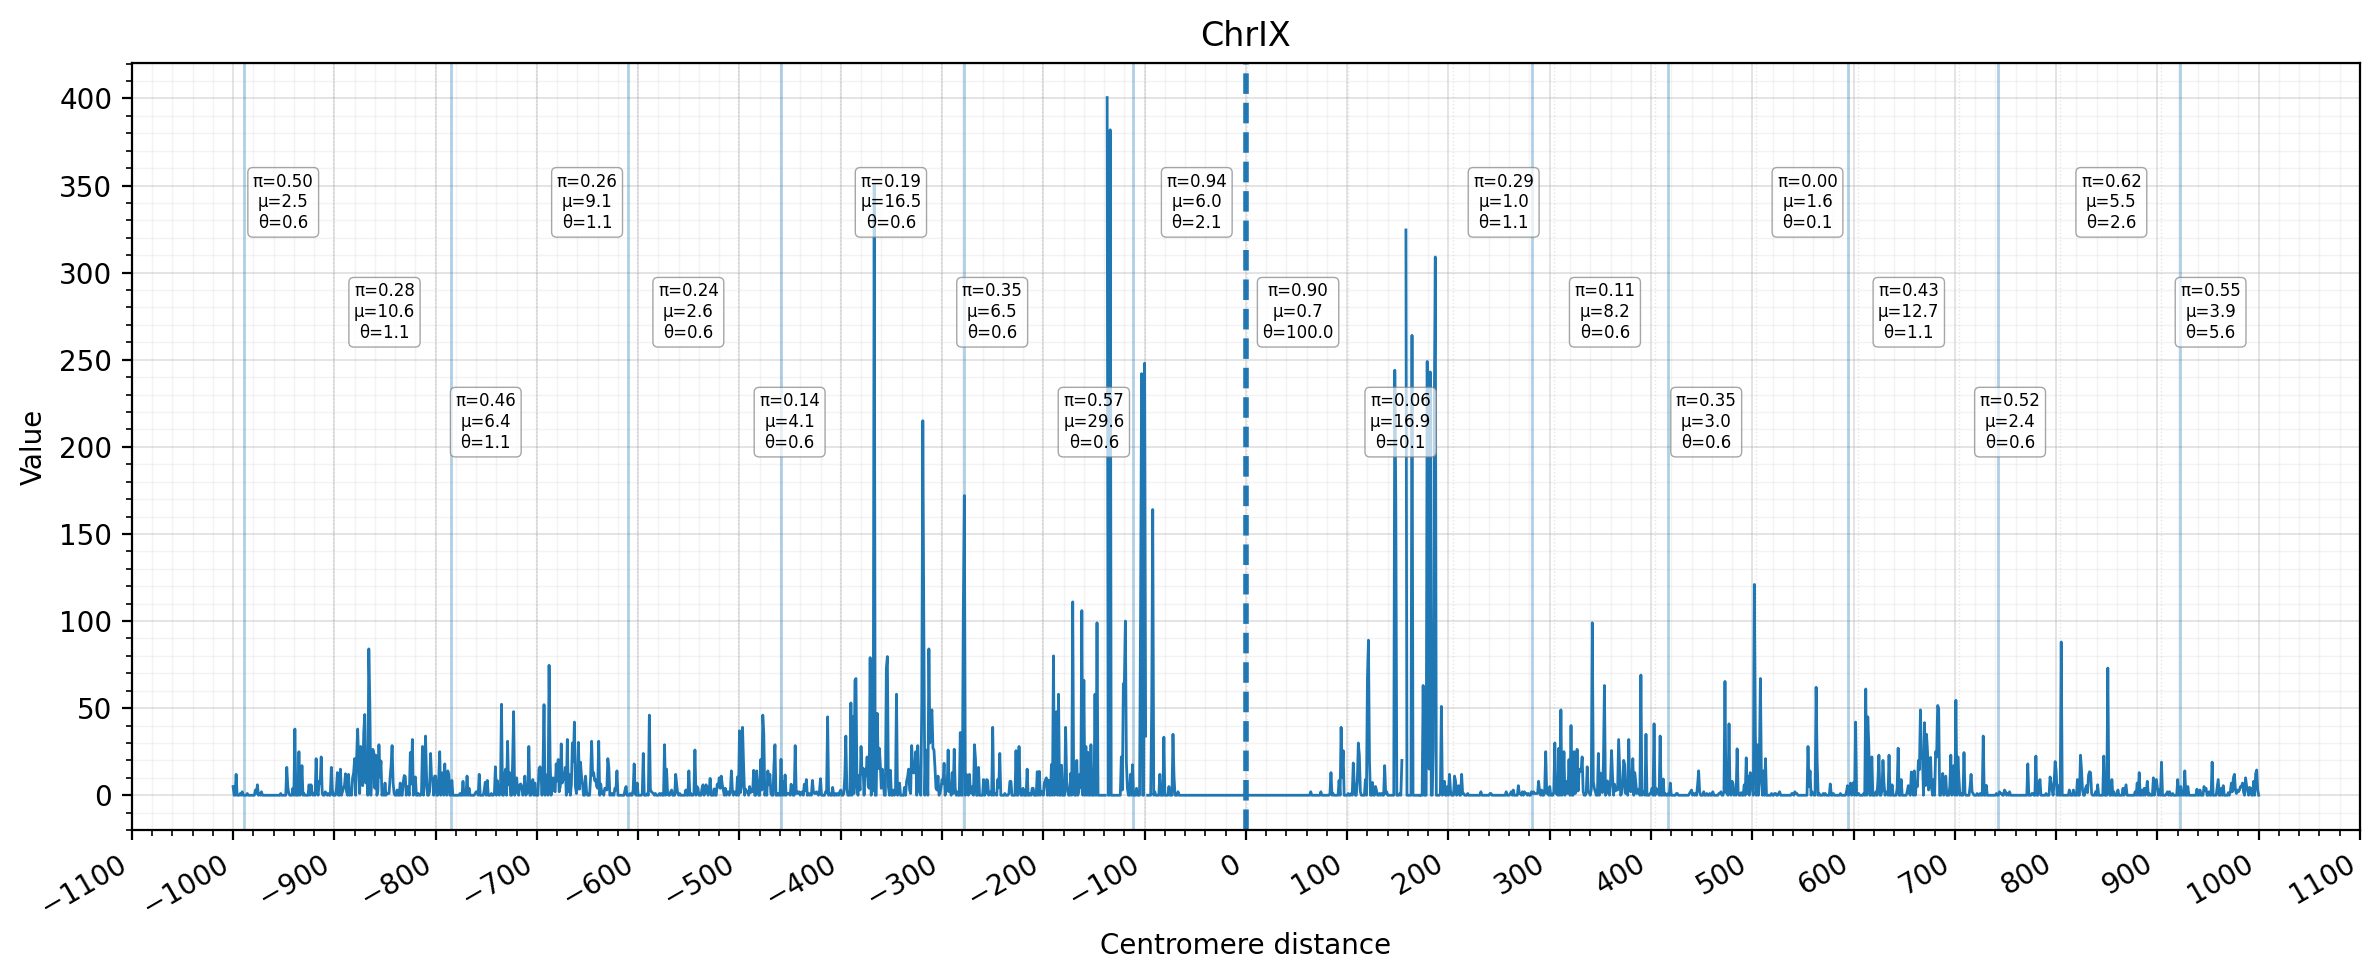
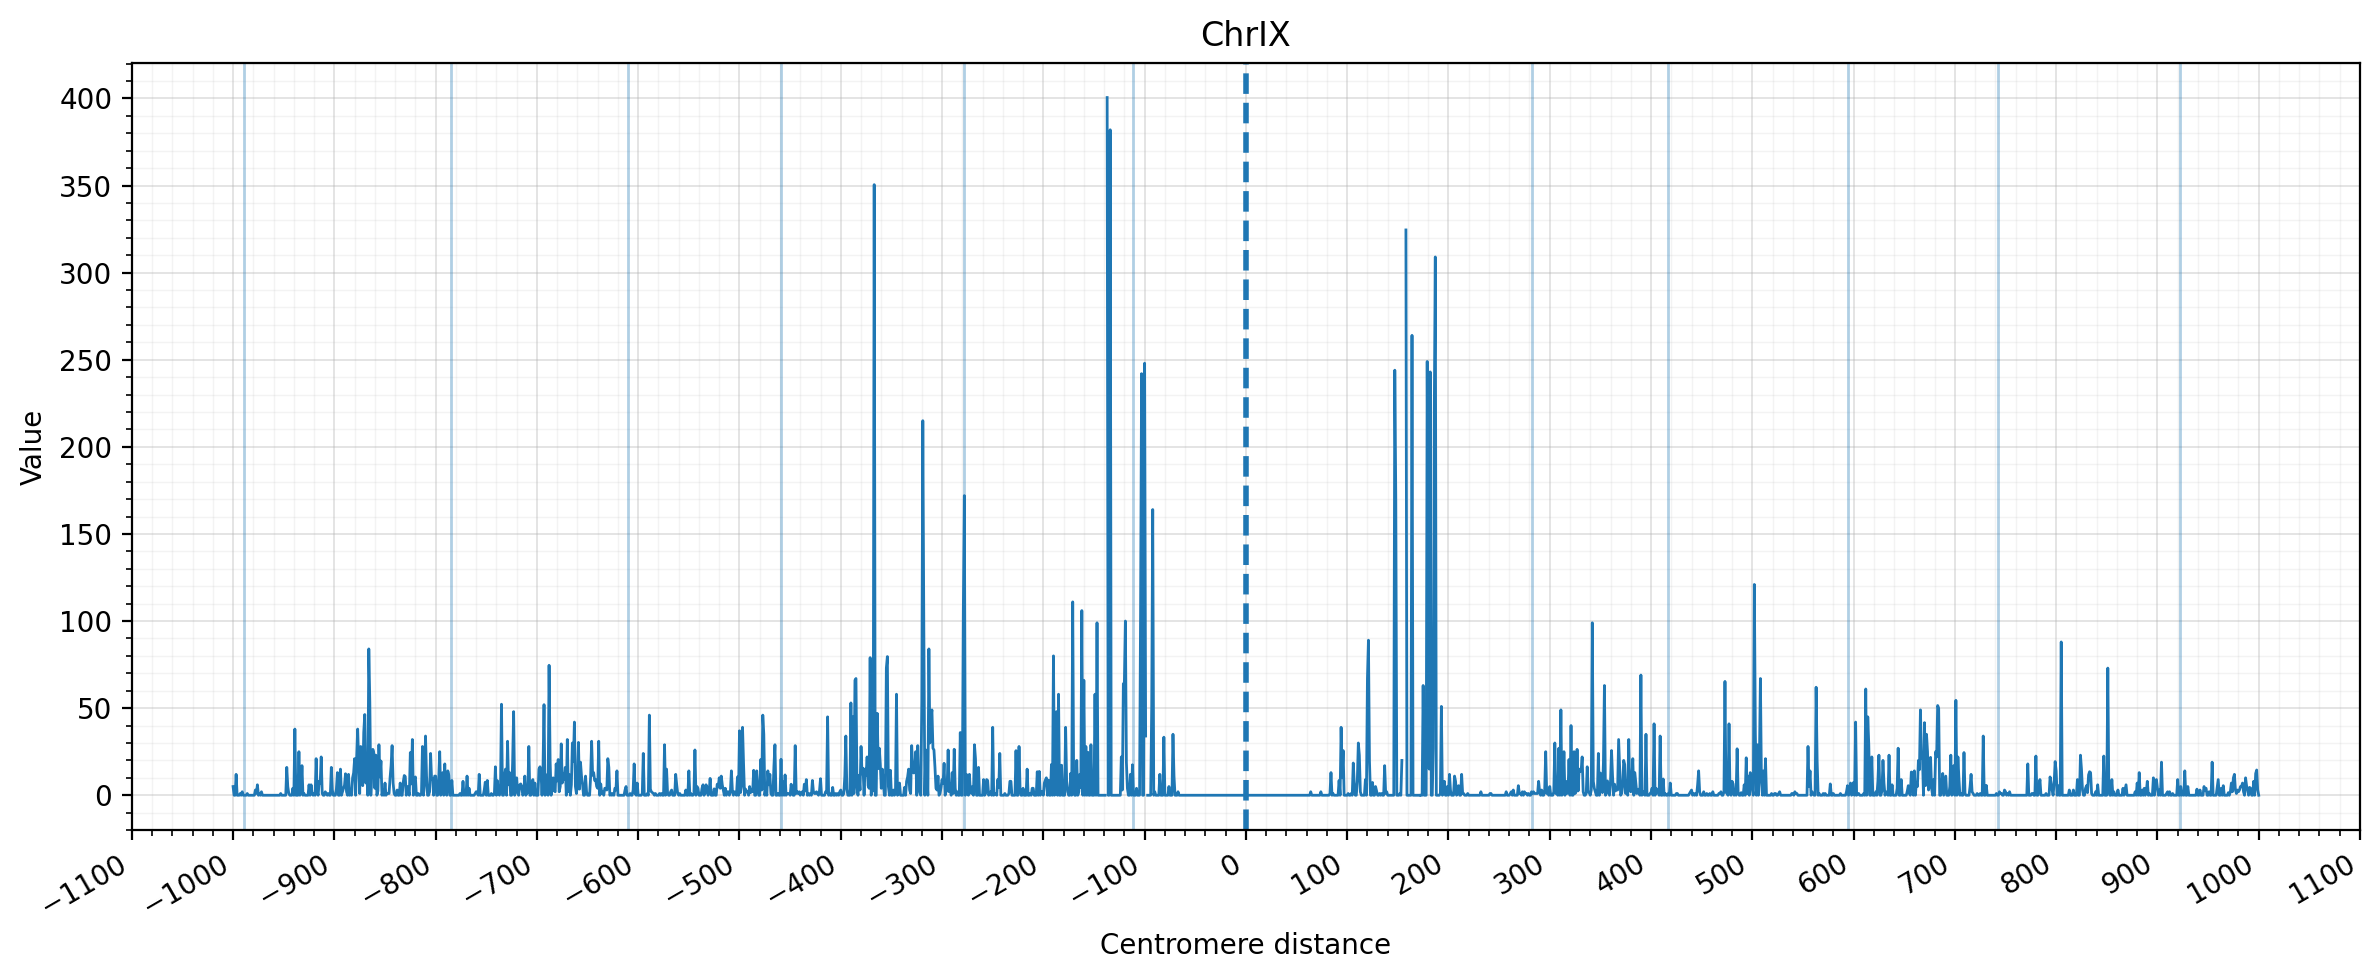
Weird bug

diff --git a/Data_exploration/plot_SATAY.py b/Data_exploration/plot_SATAY.py
@@ -13,10 +13,10 @@ from ZINB_MLE.estimate_ZINB import estimate_zinb
 
 CHROMS = ["I","II","III","IV","V","VI","VII","VIII","IX","X","XI","XII","XIII","XIV","XV","XVI"]
 CPD = {
-    "I": [-720, -500, -450, -200, -70, 80, 440, 517, 720, 930],
-    "II": [-850, -680, -60, 65],
-    "III": [-900, -200, -120, 750],
-    "IV": [],
+    "I": [-720, -500, -350, -200, -70, 80],
+    "II": [-740, -580, -70, 65],
+    "III": [-900, -200, -80, 80, 750],
+    "IV": [-900, -800, -740, -500, -380, -60, 60 ],
     "V": [],
     "VI": [],    
     "VII": [],
@@ -32,6 +32,7 @@ CPD = {
 }
 
 def plot_around_centromere_x_is_centdist(
+    chrom,                 # <-- added
     filepath,
     outpath,
     n=1000,
@@ -40,9 +41,10 @@ def plot_around_centromere_x_is_centdist(
     major_tick_step=100,
     minor_tick_step=50,
     dpi=200,
-    value_max=500,   # <-- filter threshold
-    window_size=100,  # window size for ZINB parameter estimation
-    show_zinb_params=True,  # whether to show ZINB parameters
+    value_max=500,
+    window_size=100,
+    show_zinb_params=True,
+    show_cpd=True,         # <-- added
 ):
     df = pd.read_csv(filepath)
     df.columns = df.columns.str.lower().str.replace(' ', '_')
@@ -96,98 +98,108 @@ def plot_around_centromere_x_is_centdist(
     ax.set_xlabel("Centromere distance")
     ax.set_ylabel("Value")
 
-    # Estimate ZINB parameters in windows and annotate
+    # ---- CPD red dots (x = centromere_distance) ----
+    if show_cpd:
+        cpd_x_all = CPD.get(chrom, [])
+        if len(cpd_x_all) > 0:
+            x_min, x_max = win["centromere_distance"].min(), win["centromere_distance"].max()
+            cpd_x = [x for x in cpd_x_all if x_min <= x <= x_max]
+
+            if len(cpd_x) > 0:
+                # put dots near the top so they are visible regardless of the curve
+                # place CPD dots slightly below the x-axis (y=0)
+                y_min, y_max = ax.get_ylim()
+                offset = 0.03 * (y_max - y_min)   # 3% of the y-range
+                y_cpd = -offset
+
+                ax.scatter(
+                    cpd_x,
+                    [y_cpd] * len(cpd_x),
+                    s=28,
+                    marker="o",
+                    color="red",
+                    zorder=5,
+                    label="CPD"
+                )
+                ax.legend(loc="upper right", fontsize=8, framealpha=0.8)
+
+    # ---- ZINB parameter estimation annotations ----
     if show_zinb_params:
-        # Sort by position to ensure windows are sequential
         win_sorted = win.sort_values("centromere_distance").reset_index(drop=True)
         values_array = win_sorted["value"].values
         positions_array = win_sorted["centromere_distance"].values
-        
-        # Remove NaN values for ZINB estimation
+
         valid_mask = ~np.isnan(values_array)
-        
         n_points = np.sum(valid_mask)
         n_windows = int(np.ceil(n_points / window_size))
-        
-        # Store window info for annotation
+
         window_annotations = []
-        
-        # Extract valid data for windowing
         valid_values = values_array[valid_mask]
         valid_positions = positions_array[valid_mask]
-        
+
         for i in range(n_windows):
             start_idx = i * window_size
             end_idx = min((i + 1) * window_size, n_points)
             window_data = valid_values[start_idx:end_idx]
             window_positions = valid_positions[start_idx:end_idx]
-            
-            if len(window_data) < 10:  # Skip very small windows
+
+            if len(window_data) < 10:
                 continue
-            
-            # Get window center position for annotation
+
             window_center = np.mean(window_positions)
-            
-            # Round to integers and filter outliers (95th percentile)
+
             rounded_data = np.round(window_data).astype(int)
             threshold = np.percentile(rounded_data, 95)
             filtered_data = rounded_data[rounded_data <= threshold]
-            
-            if len(filtered_data) < 10:  # Skip if too few points remain
+
+            if len(filtered_data) < 10:
                 continue
-            
-            # Estimate ZINB parameters
+
             try:
                 estimates = estimate_zinb(filtered_data, max_iter=1000)
-                
-                if estimates['converged']:
-                    # Format the parameters
-                    pi_val = estimates['pi']
-                    mu_val = estimates['mu']
-                    theta_val = estimates['theta']
-                    
-                    # Create annotation text
+                if estimates.get("converged", False):
+                    pi_val = estimates["pi"]
+                    mu_val = estimates["mu"]
+                    theta_val = estimates["theta"]
                     annot_text = f"π={pi_val:.2f}\nμ={mu_val:.1f}\nθ={theta_val:.1f}"
-                    
+
                     window_annotations.append({
-                        'position': window_center,
-                        'text': annot_text,
-                        'start_pos': window_positions[0],
-                        'end_pos': window_positions[-1]
+                        "position": window_center,
+                        "text": annot_text,
+                        "end_pos": window_positions[-1],
                     })
             except Exception as e:
-                print(f"Warning: Failed to estimate ZINB for window {i+1}: {e}")
+                print(f"Warning: Failed to estimate ZINB for {chrom} window {i+1}: {e}")
                 continue
-        
-        # Add annotations to the plot
-        # Stagger vertically to avoid overlap
+
         y_max = ax.get_ylim()[1]
         annotation_heights = [0.85 * y_max, 0.70 * y_max, 0.55 * y_max]
-        
+
         for idx, annot in enumerate(window_annotations):
-            # Cycle through annotation heights
             y_pos = annotation_heights[idx % len(annotation_heights)]
-            
             ax.text(
-                annot['position'], 
+                annot["position"],
                 y_pos,
-                annot['text'],
+                annot["text"],
                 fontsize=6,
-                ha='center',
-                va='top',
-                bbox=dict(boxstyle='round,pad=0.3', facecolor='white', alpha=0.7, edgecolor='gray', linewidth=0.5)
+                ha="center",
+                va="top",
+                bbox=dict(
+                    boxstyle="round,pad=0.3",
+                    facecolor="white",
+                    alpha=0.7,
+                    edgecolor="gray",
+                    linewidth=0.5
+                )
             )
-            
-            # Draw a subtle vertical line at window boundaries
-            if idx < len(window_annotations) - 1:  # Don't draw after last window
-                ax.axvline(annot['end_pos'], color='gray', alpha=0.2, linewidth=0.5, linestyle=':')
+            if idx < len(window_annotations) - 1:
+                ax.axvline(annot["end_pos"], color="gray", alpha=0.2, linewidth=0.5, linestyle=":")
 
     ax.tick_params(axis="x", labelrotation=30)
     for lbl in ax.get_xticklabels():
         lbl.set_ha("right")
 
     fig.tight_layout()
-
     os.makedirs(os.path.dirname(outpath), exist_ok=True)
     fig.savefig(outpath, dpi=dpi, bbox_inches="tight")
     plt.close(fig)
@@ -206,6 +218,7 @@ if __name__ == "__main__":
             continue
 
         plot_around_centromere_x_is_centdist(
+            chrom=chrom,                # <-- pass chrom
             filepath=infile,
             outpath=outfile,
             n=1000,
@@ -213,8 +226,9 @@ if __name__ == "__main__":
             minor_tick_step=50,
             strict_centromere_match=True,
             value_max=500,
-            window_size=100,  # ZINB parameter estimation window size
-            show_zinb_params=True,
+            window_size=100,
+            show_zinb_params=False,
+            show_cpd=True,
         )
 
         print(f"Saved: {outfile}")
